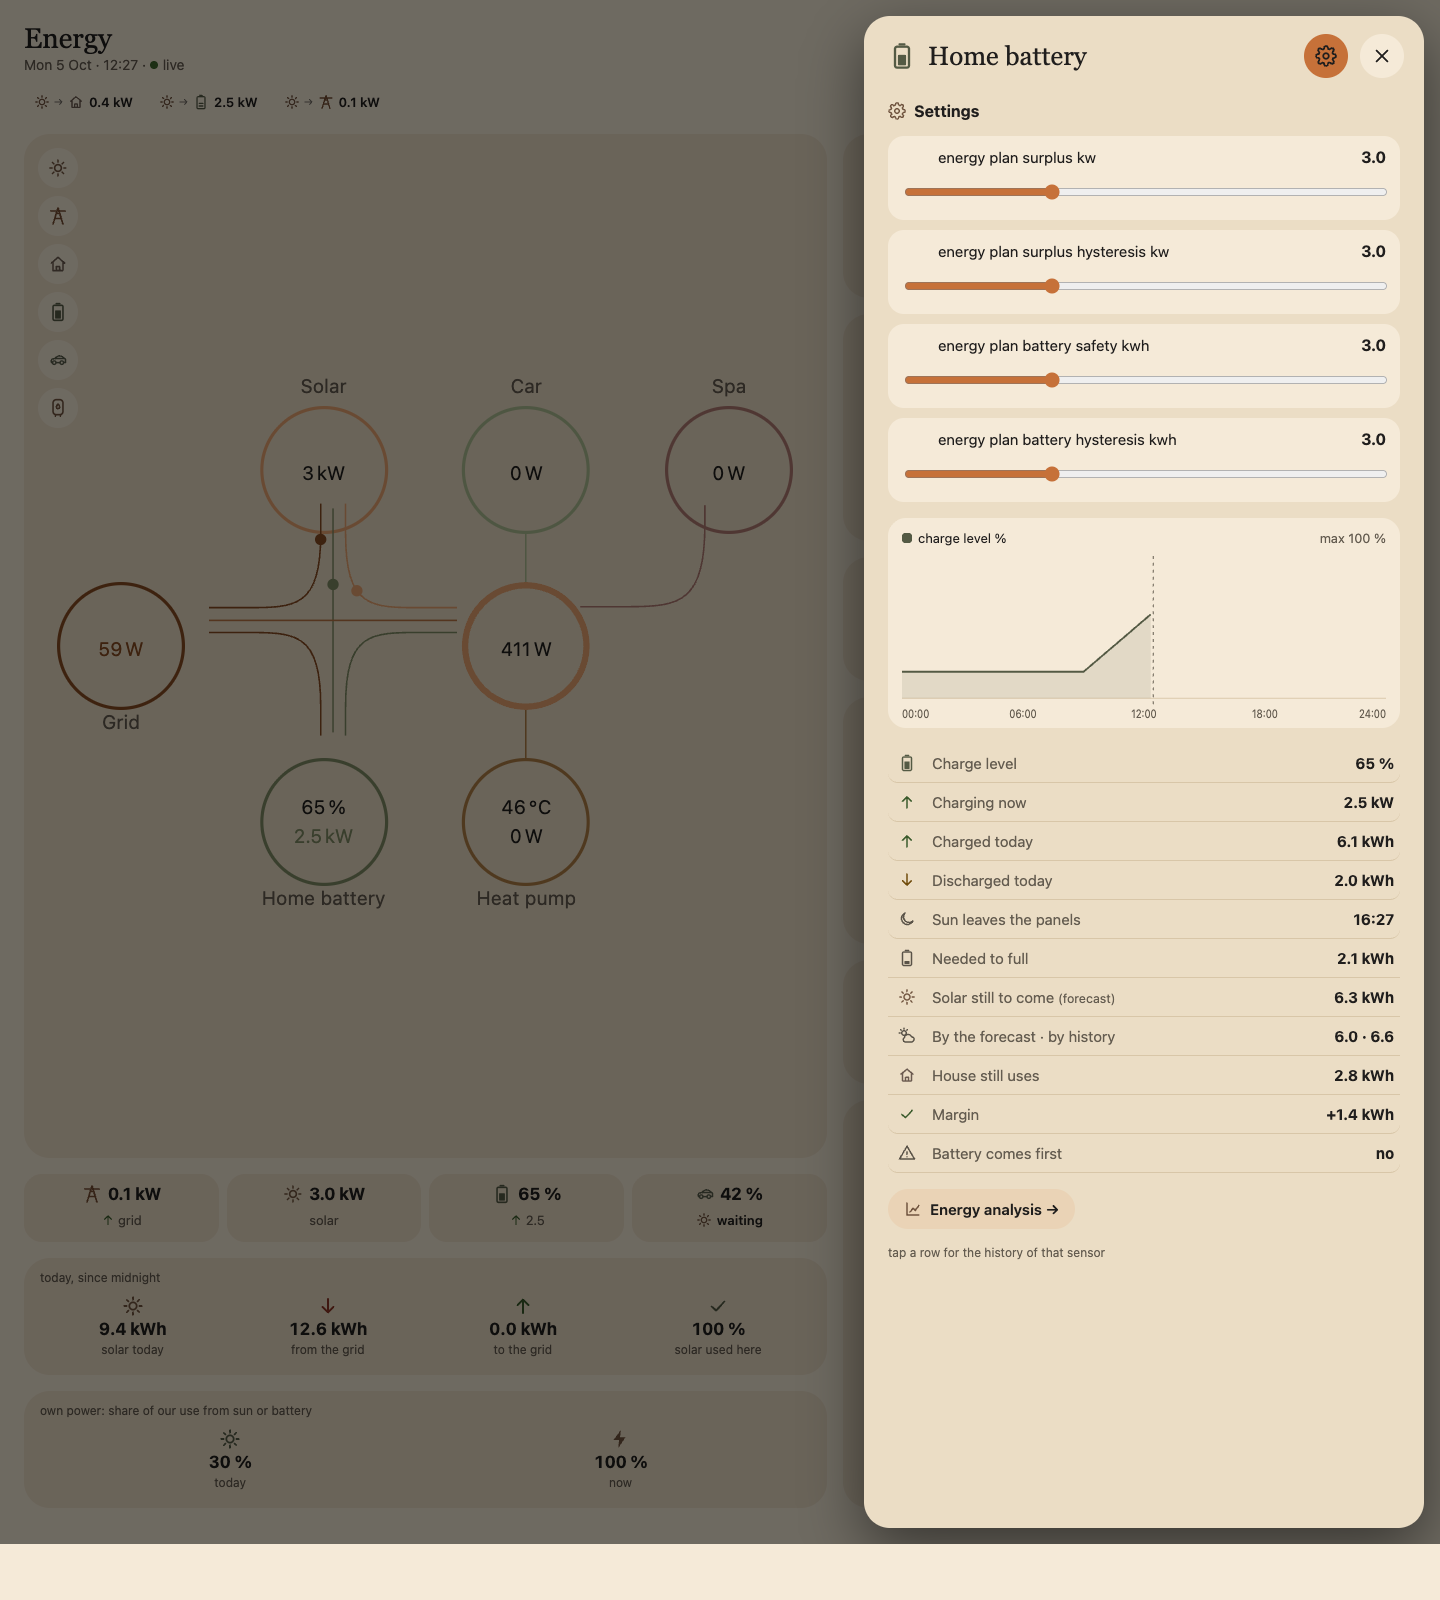
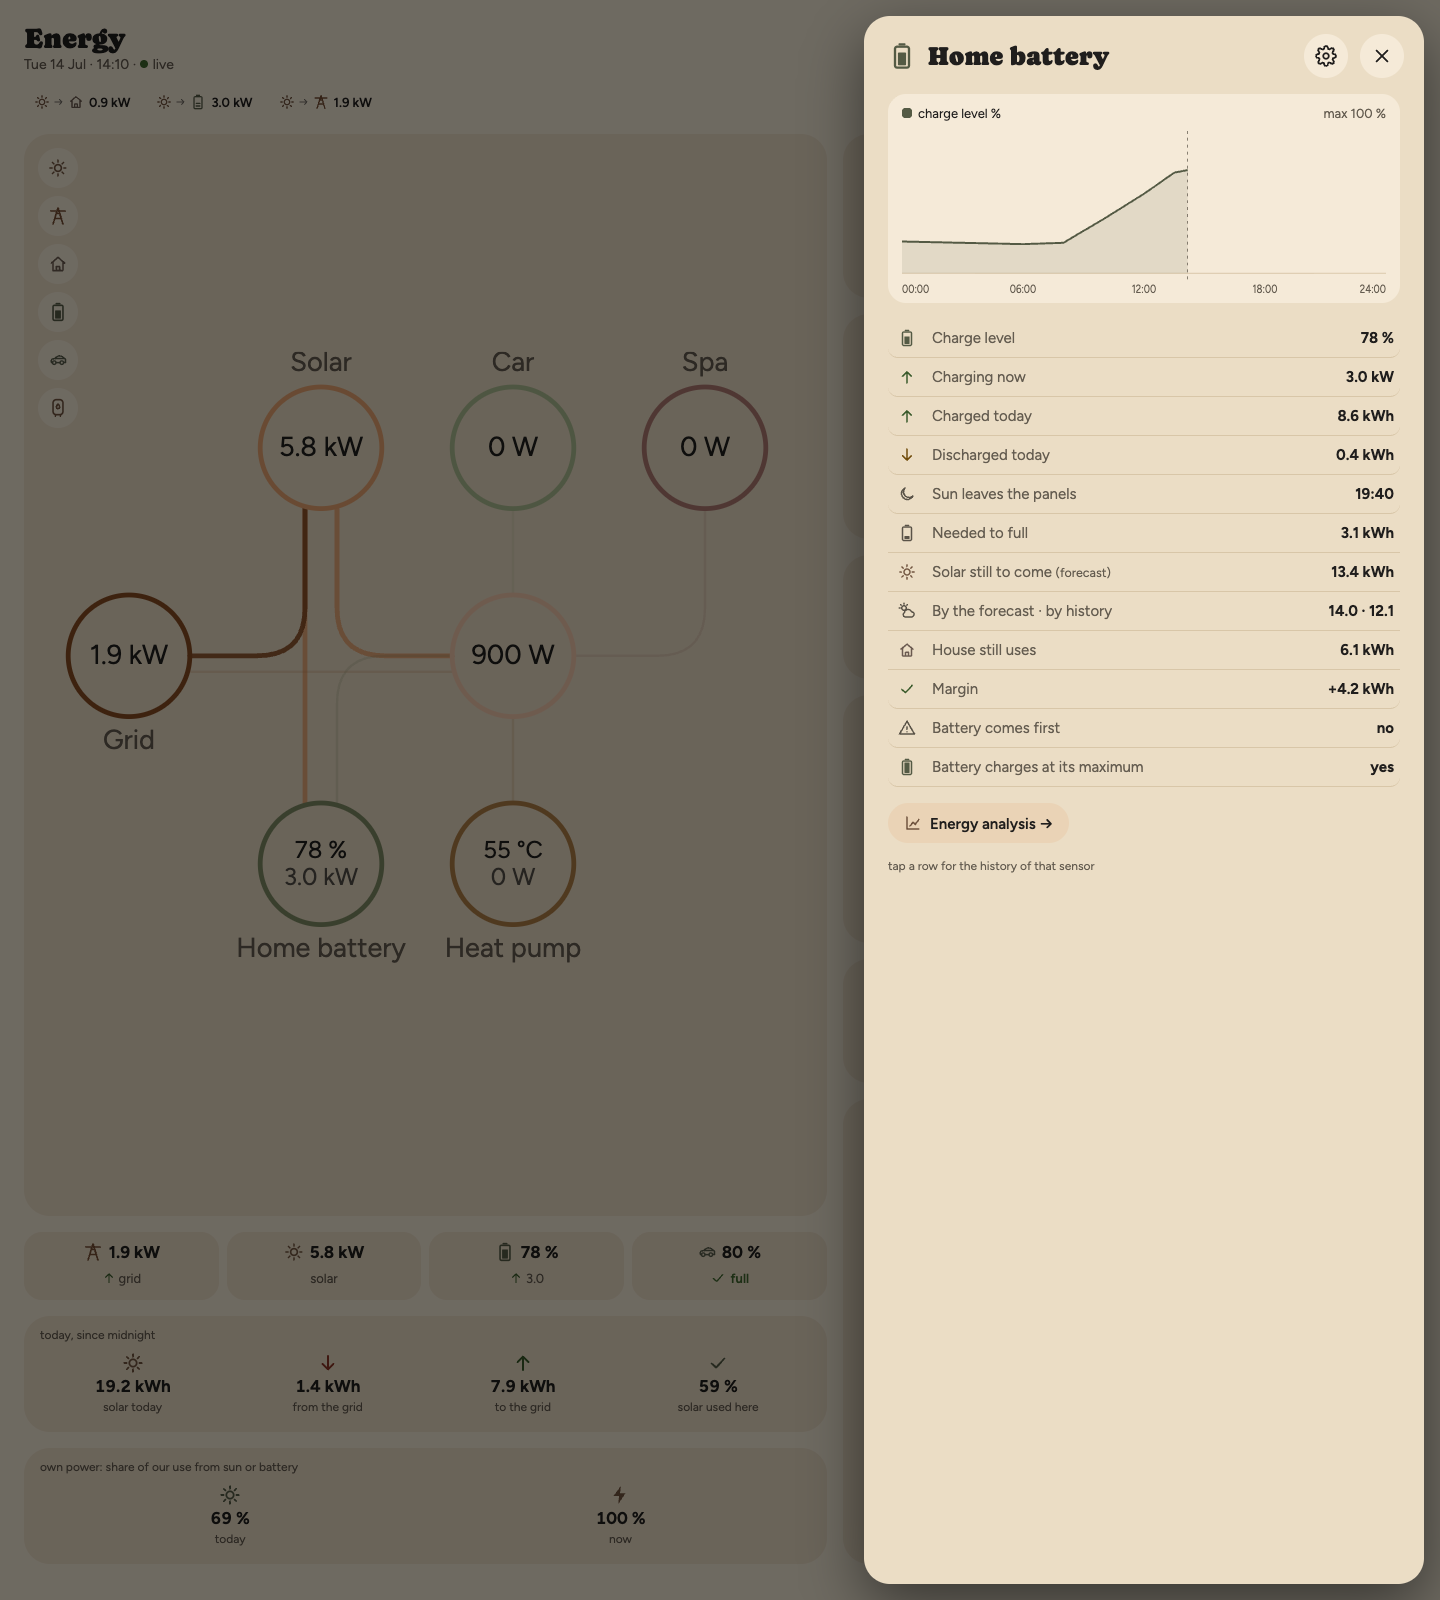
docs(energy): battery sheet screenshot with battery saturated

diff --git a/docs/screenshots/README.md b/docs/screenshots/README.md
@@ -49,7 +49,7 @@ module files with a mocked Home Assistant.
 ### `energy`
 
 <table>
-<tr><td valign="top" width="50%"><a href="kit-demo/energy/desktop-screen.png"><img src="kit-demo/energy/desktop-screen.png" width="400" alt="Energy screen: power flow, price, car and hot water"></a><br><sub>Energy screen: power flow, price, car and hot water</sub></td><td valign="top" width="50%"><a href="kit-demo/energy/desktop-battery-sheet.png"><img src="kit-demo/energy/desktop-battery-sheet.png" width="400" alt="Energy screen with the home-battery sheet open"></a><br><sub>Energy screen with the home-battery sheet open</sub></td></tr>
+<tr><td valign="top" width="50%"><a href="kit-demo/energy/desktop-screen.png"><img src="kit-demo/energy/desktop-screen.png" width="400" alt="Energy screen: power flow, price, car and hot water"></a><br><sub>Energy screen: power flow, price, car and hot water</sub></td><td valign="top" width="50%"><a href="kit-demo/energy/desktop-battery-sheet.png"><img src="kit-demo/energy/desktop-battery-sheet.png" width="400" alt="Home-battery sheet: the battery charges at its maximum while the house exports, so battery first is off"></a><br><sub>Home-battery sheet: the battery charges at its maximum while the house exports, so battery first is off</sub></td></tr>
 <tr><td valign="top" width="50%"><a href="kit-demo/energy/desktop-analysis-power.png"><img src="kit-demo/energy/desktop-analysis-power.png" width="400" alt="Energy analysis: power"></a><br><sub>Energy analysis: power</sub></td><td valign="top" width="50%"><a href="kit-demo/energy/desktop-analysis-tariff.png"><img src="kit-demo/energy/desktop-analysis-tariff.png" width="400" alt="Energy analysis: tariff"></a><br><sub>Energy analysis: tariff</sub></td></tr>
 </table>
 
